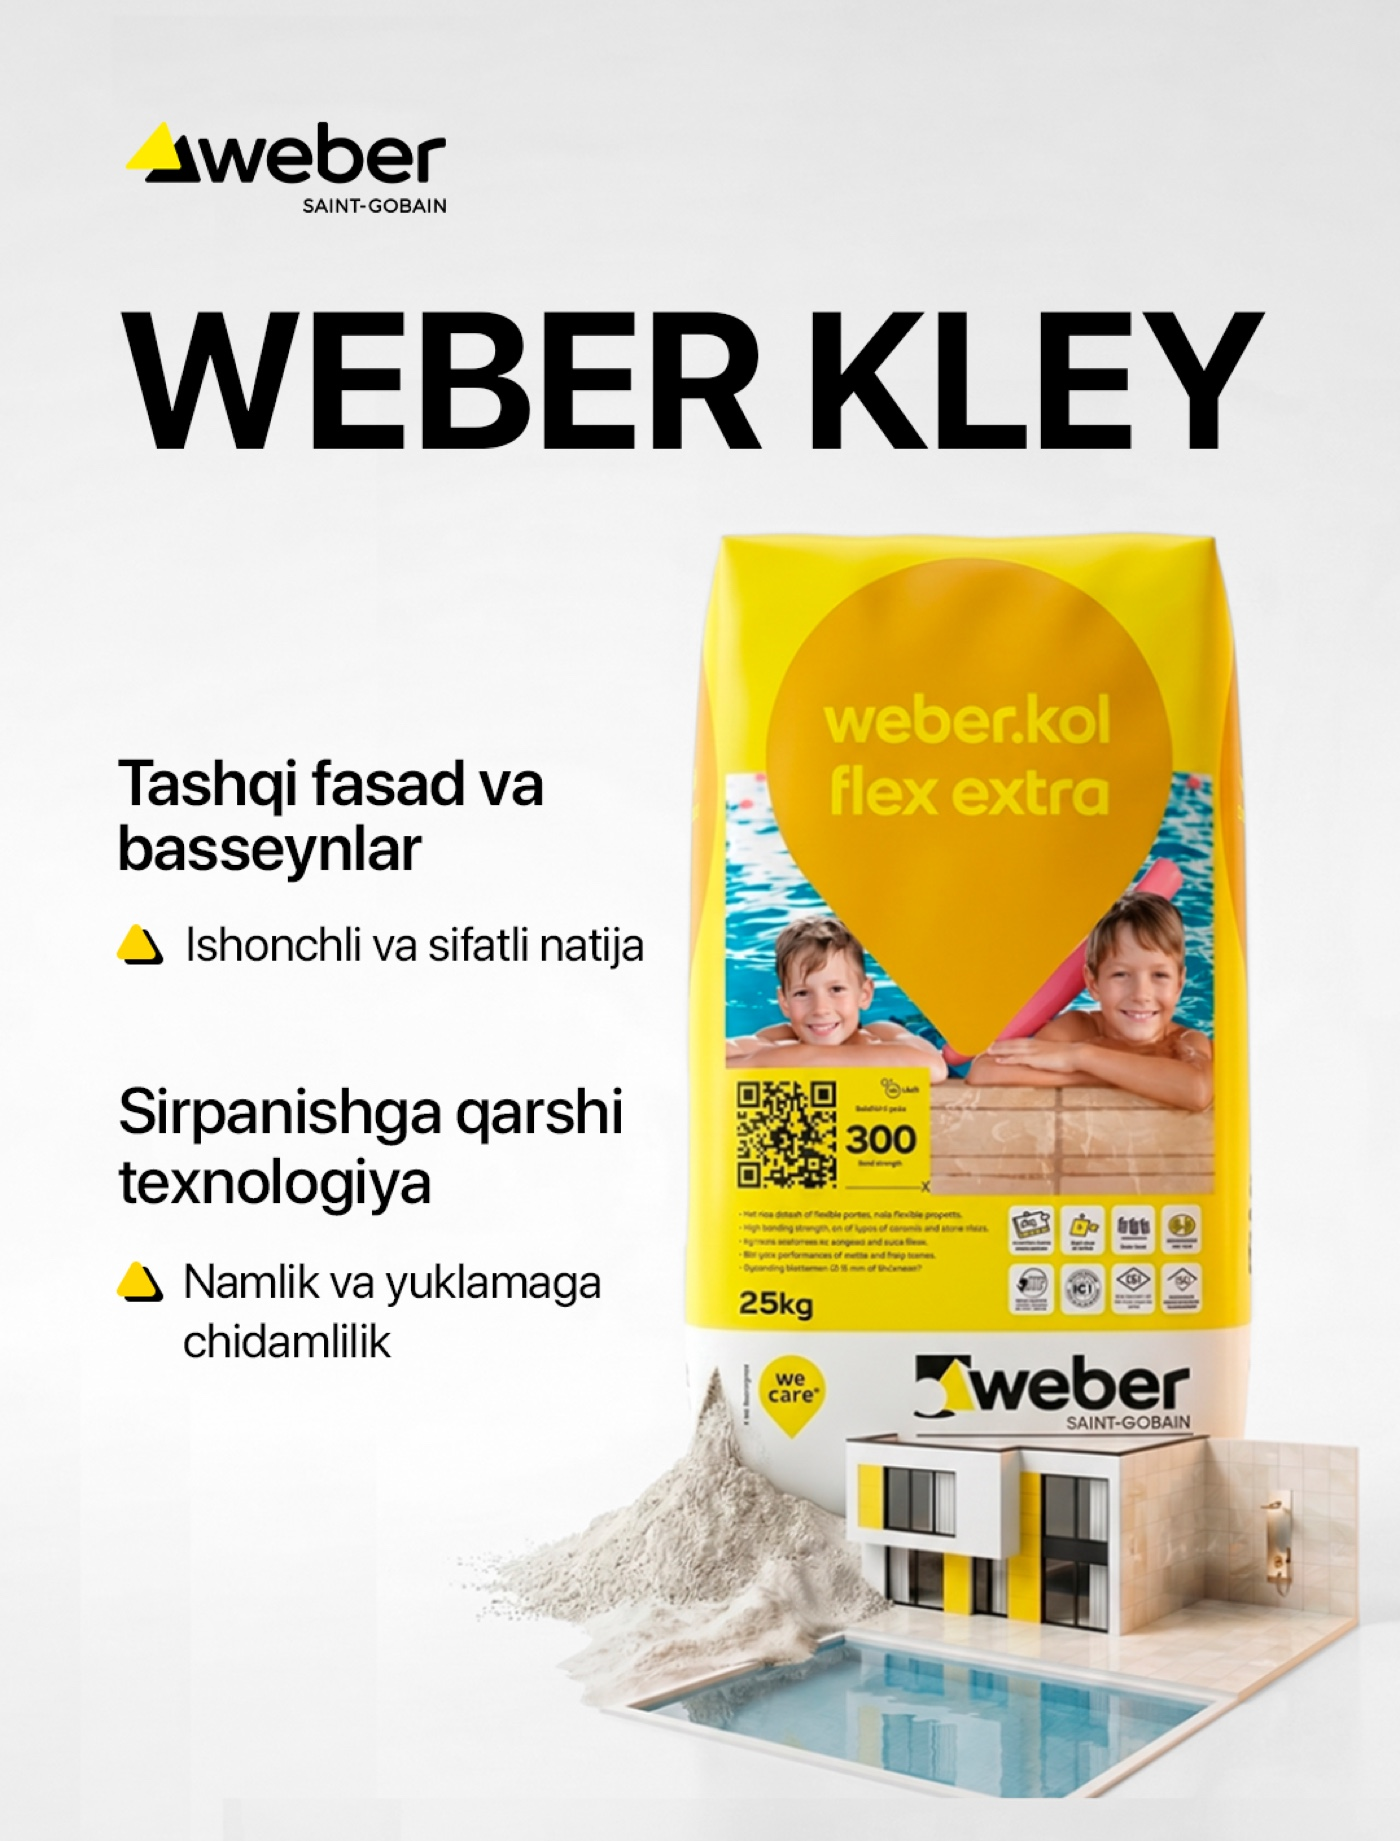
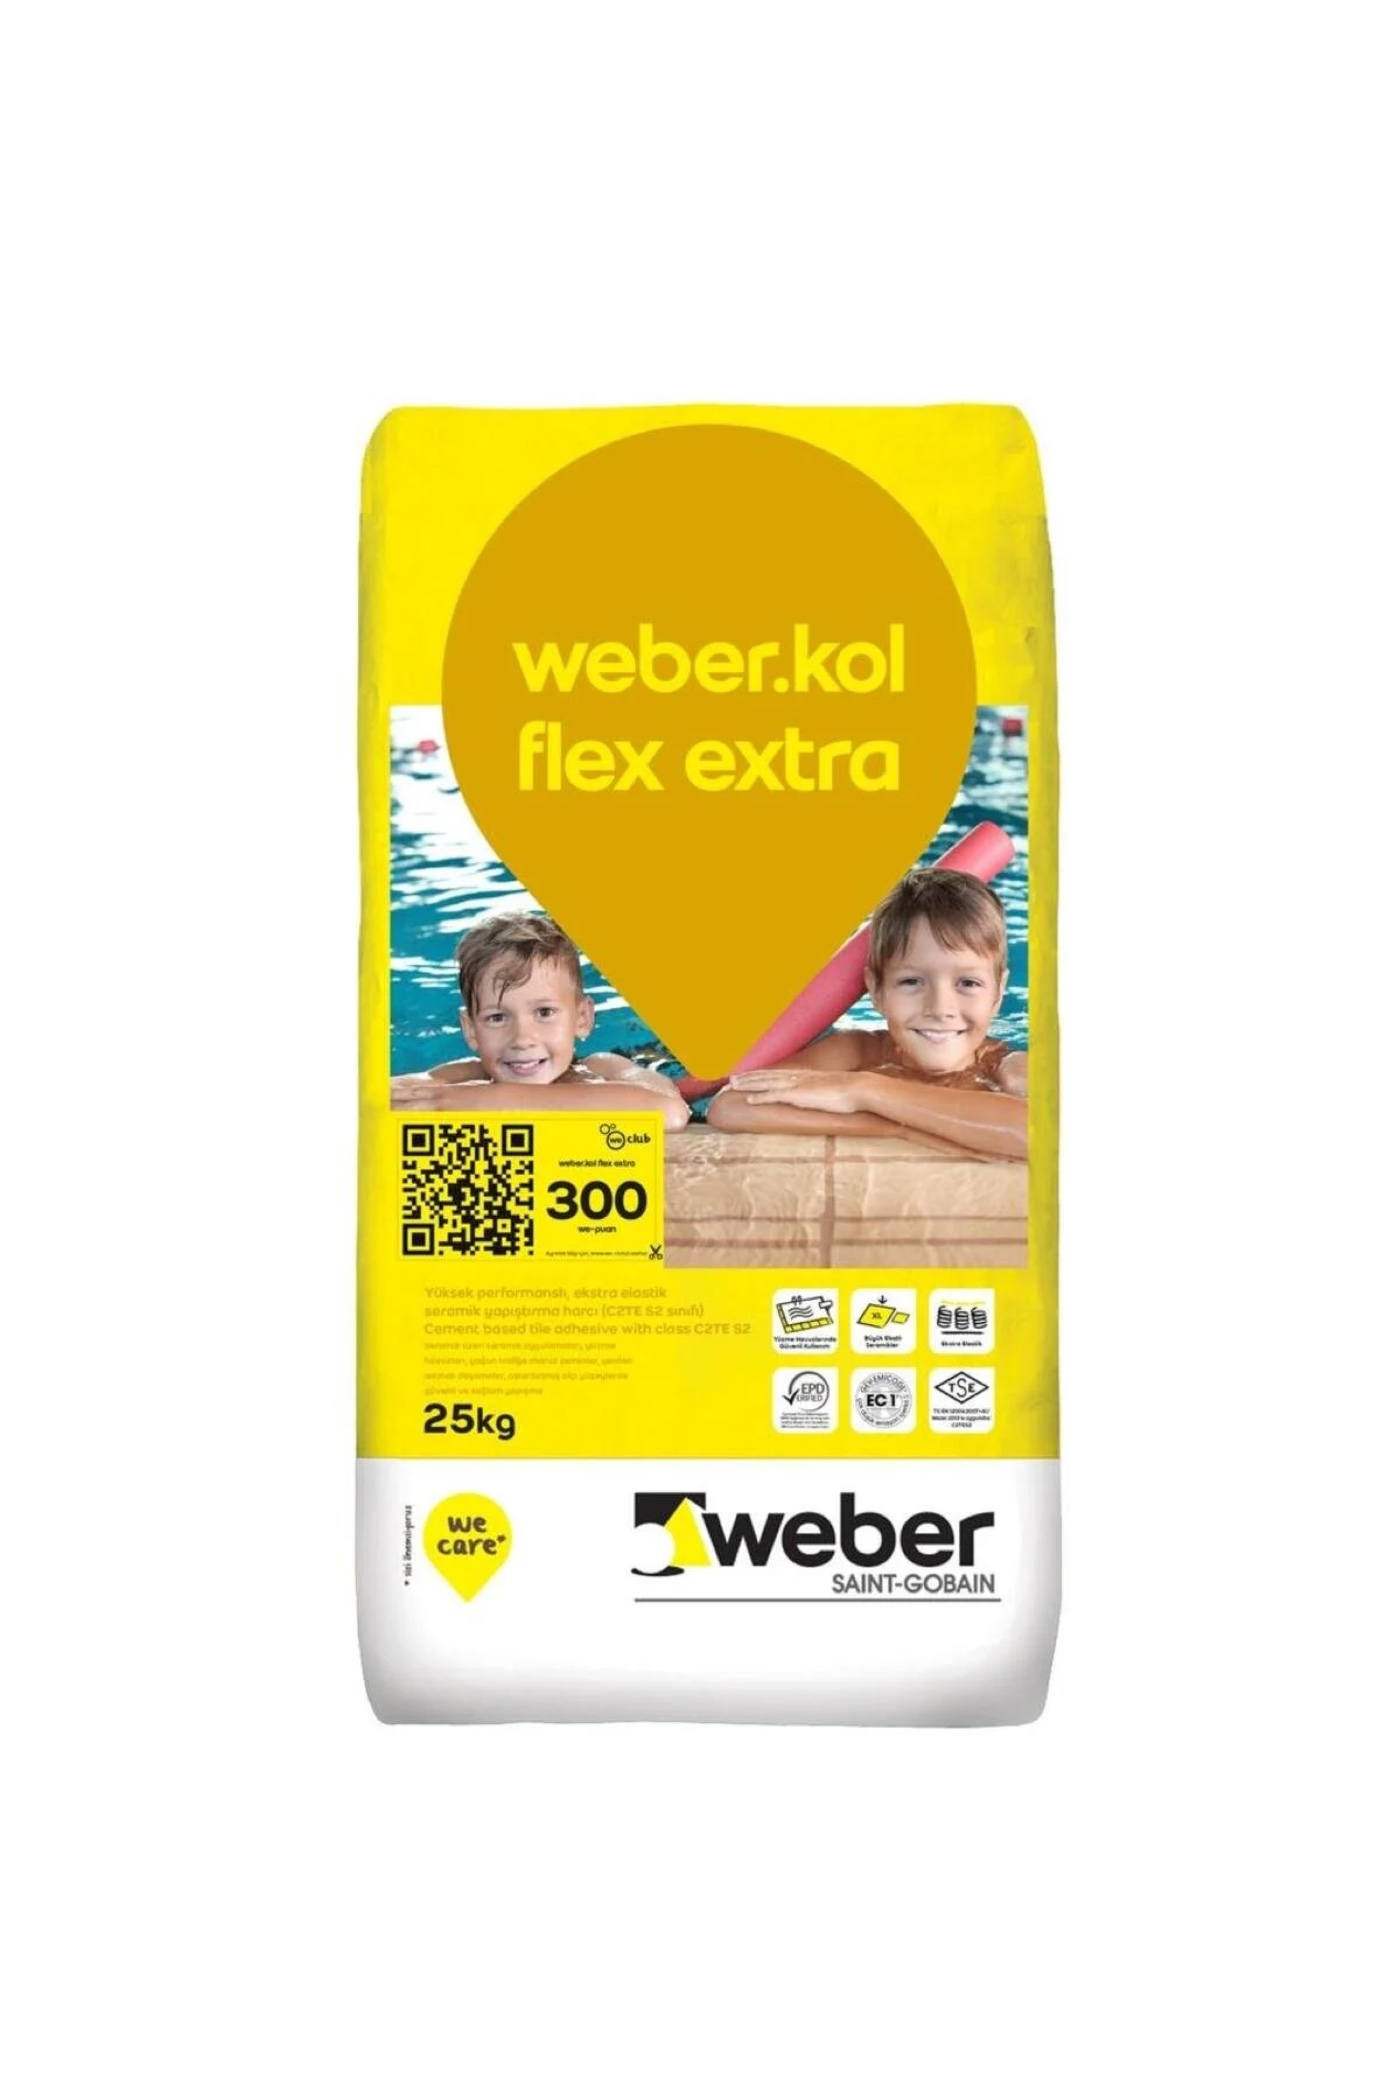
Update OFAD brand imagery with provided assets

diff --git a/index.html b/index.html
@@ -731,6 +731,7 @@
     }
 
     .wd40-photo-main {
+      grid-row: span 2;
       min-height: 356px;
       display: grid;
       place-items: center;
@@ -742,8 +743,9 @@
     }
 
     .wd40-photo-main img {
-      width: min(104%, 440px);
-      height: auto;
+      width: auto;
+      height: 100%;
+      max-width: 100%;
       object-fit: contain;
       filter: drop-shadow(0 28px 38px rgba(0, 0, 0, 0.35));
     }
@@ -762,17 +764,39 @@
       background: #112f86;
     }
 
-    .wd40-logo-card img,
-    .wd40-side-product img {
+    .wd40-logo-card img {
       width: 100%;
       height: auto;
       object-fit: contain;
       filter: drop-shadow(0 16px 24px rgba(0, 0, 0, 0.18));
     }
 
+    .wd40-side-product img {
+      width: 100%;
+      height: 100%;
+      object-fit: cover;
+      object-position: center top;
+      filter: drop-shadow(0 16px 24px rgba(0, 0, 0, 0.18));
+    }
+
     .weber-photo-grid {
       grid-template-columns: minmax(0, 1.05fr) minmax(0, 0.95fr);
       align-items: stretch;
+    }
+
+    .weber-logo-card {
+      grid-column: 1 / -1;
+      min-height: 96px;
+      display: grid;
+      place-items: center;
+      padding: 16px 24px;
+      border-radius: 26px;
+    }
+
+    .weber-logo-card img {
+      width: min(100%, 460px);
+      height: auto;
+      object-fit: contain;
     }
 
     .weber-photo-card {
@@ -786,7 +810,11 @@
     }
 
     .weber-photo-card img {
+      padding: 12px;
+      background: var(--white);
+      object-fit: contain;
       object-position: center;
+      box-sizing: border-box;
       transition: transform 500ms ease;
     }
 
@@ -840,8 +868,11 @@
       display: block;
       width: 100%;
       aspect-ratio: 4 / 5;
-      object-fit: cover;
+      padding: 10px;
+      background: var(--white);
+      object-fit: contain;
       object-position: center;
+      box-sizing: border-box;
     }
 
     .mini-pack-body {
@@ -1305,13 +1336,13 @@
             <div class="brand-stage dark">
               <div class="brand-photo-grid wd40-image-stack" aria-label="WD-40 product presentation">
                 <figure class="brand-photo-card wd40-photo-main">
-                  <img src="assets/wd40-200ml.png" alt="WD-40 200 ml multi-use product" width="1800" height="1200" loading="lazy" decoding="async" />
+                  <img src="assets/wd40-can-400ml.jpg" alt="WD-40 400 ml multi-use product" width="1100" height="1955" loading="lazy" decoding="async" />
                 </figure>
                 <figure class="brand-photo-card wd40-logo-card">
-                  <img src="assets/wd40-logo.jpg" alt="WD-40 logo" width="1500" height="874" loading="lazy" decoding="async" />
+                  <img src="assets/wd40-logo.jpg" alt="WD-40 logo" width="1400" height="1400" loading="lazy" decoding="async" />
                 </figure>
                 <figure class="brand-photo-card wd40-side-product">
-                  <img src="assets/wd40-100ml.jpg" alt="WD-40 100 ml product" width="1000" height="900" loading="lazy" decoding="async" />
+                  <img src="assets/wd40-can-closeup.jpg" alt="WD-40 can close-up" width="1100" height="1955" loading="lazy" decoding="async" />
                 </figure>
               </div>
             </div>
@@ -1328,14 +1359,17 @@
           <article class="brand-card">
             <div class="brand-stage weber">
               <div class="brand-photo-grid weber-photo-grid" aria-label="WEBER product presentation">
+                <figure class="brand-photo-card weber-logo-card">
+                  <img src="assets/weber-logo.jpg" alt="WEBER Saint-Gobain logo" width="1600" height="561" loading="lazy" decoding="async" />
+                </figure>
                 <figure class="brand-photo-card weber-photo-card feature">
-                  <img src="assets/weber-kley-showcase.jpg" alt="WEBER KLEY product showcase" width="1400" height="1841" loading="lazy" decoding="async" />
+                  <img src="assets/weber-kley-showcase.jpg" alt="WEBER KLEY product showcase" width="1400" height="2100" loading="lazy" decoding="async" />
                 </figure>
                 <figure class="brand-photo-card weber-photo-card">
-                  <img src="assets/weber-izolyatsiya-showcase.jpg" alt="WEBER dry SS-10 product showcase" width="1400" height="1841" loading="lazy" decoding="async" />
+                  <img src="assets/weber-izolyatsiya-showcase.jpg" alt="WEBER dry SS-10 product showcase" width="1050" height="1143" loading="lazy" decoding="async" />
                 </figure>
                 <figure class="brand-photo-card weber-photo-card">
-                  <img src="assets/weber-fuga-showcase.jpg" alt="WEBER joint flex product showcase" width="1400" height="1841" loading="lazy" decoding="async" />
+                  <img src="assets/weber-fuga-showcase.jpg" alt="WEBER joint flex product showcase" width="1000" height="1111" loading="lazy" decoding="async" />
                 </figure>
               </div>
             </div>
